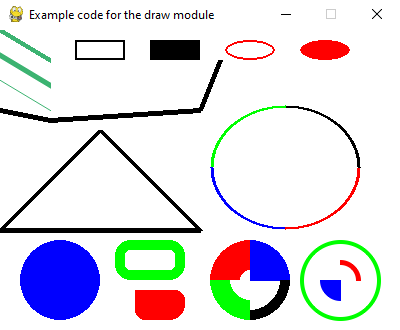
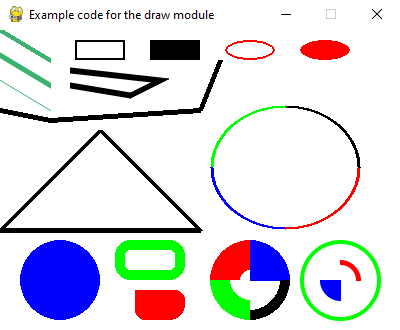
Code examples Screenshot

Changed region(s): [[0.15, 0.1818, 0.42, 0.303]]

diff --git a/docs/reST/ref/code_examples/draw_module_example.py b/docs/reST/ref/code_examples/draw_module_example.py
@@ -45,6 +45,12 @@ while not done:
         screen, "black", False, [[0, 80], [50, 90], [200, 80], [220, 30]], 5
     )
 
+    # Draw on the screen 3 black antialiased lines, each 5 pixels wide.
+    # The 'False' means the first and last points are not connected.
+    pygame.draw.aalines(
+        screen, "black", False, [[70, 40], [160, 50], [130, 65], [70, 55]], 5
+    )
+
     # Draw a rectangle outline
     pygame.draw.rect(screen, "black", [75, 10, 50, 20], 2)
 
